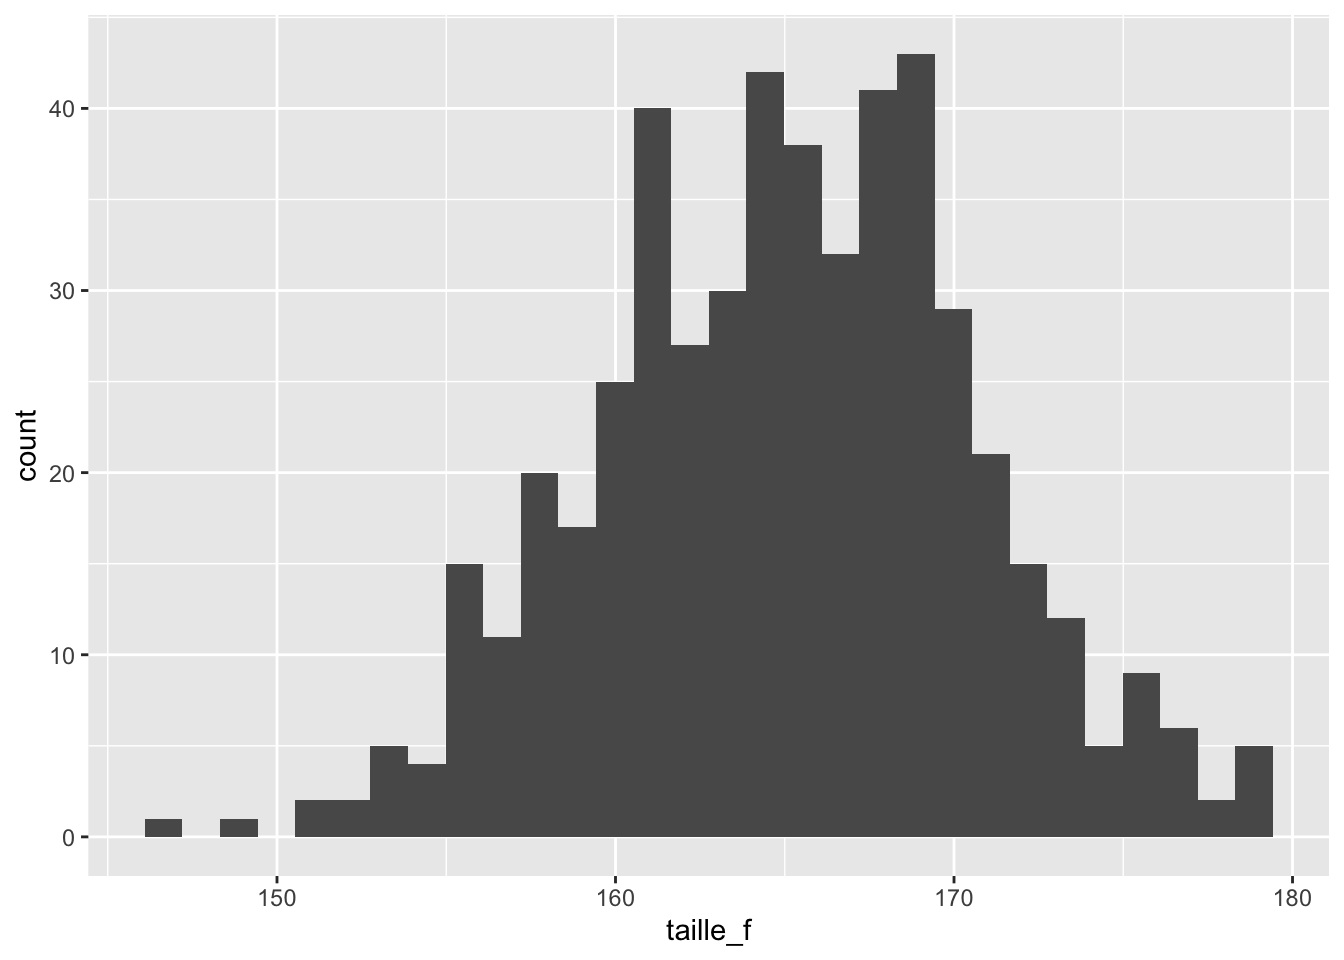
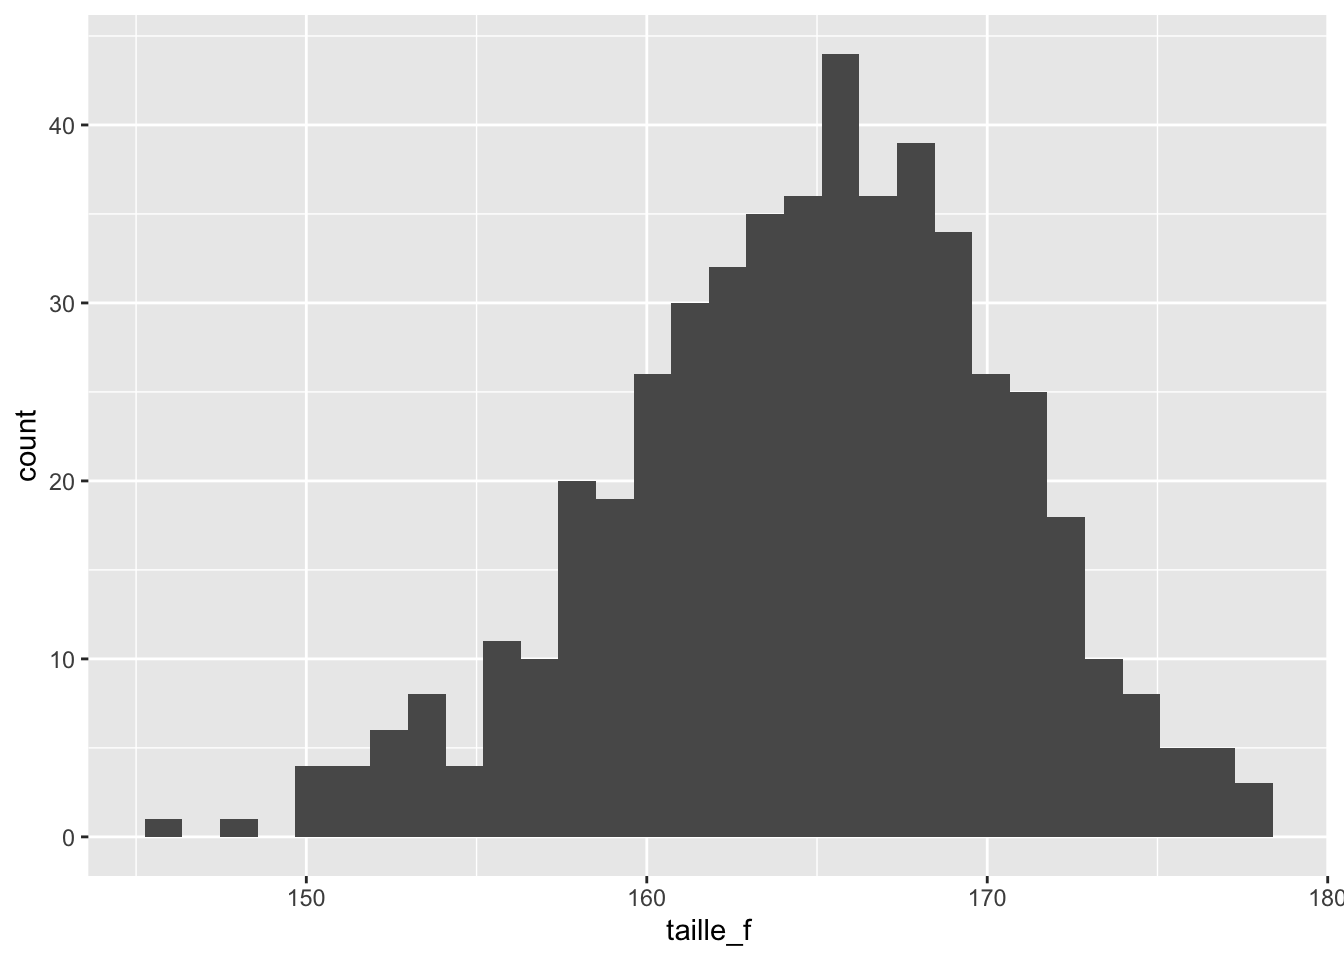
ps 2 v1

diff --git a/index.html b/index.html
@@ -118,6 +118,7 @@ pre > code.sourceCode > span > a:first-child::before { text-decoration: underlin
   <li><a href="#les-boîtes-à-moustaches-angl.-boxplots" id="toc-les-boîtes-à-moustaches-angl.-boxplots" class="nav-link" data-scroll-target="#les-boîtes-à-moustaches-angl.-boxplots">4. Les boîtes à moustaches (angl. <em>boxplots</em>)</a></li>
   <li><a href="#devoir-pour-session-6-problem-set-2" id="toc-devoir-pour-session-6-problem-set-2" class="nav-link" data-scroll-target="#devoir-pour-session-6-problem-set-2">Devoir pour Session 6 (Problem Set 2)</a></li>
   </ul></li>
+  <li><a href="#session-6-problem-set-2" id="toc-session-6-problem-set-2" class="nav-link" data-scroll-target="#session-6-problem-set-2">Session 6 (Problem Set 2)</a></li>
   </ul>
 </nav>
 </div>
@@ -1073,7 +1074,12 @@ Important
 <section id="session-3-problem-set-1" class="level1">
 <h1>Session 3 (Problem Set 1)</h1>
 <p>Les résultats du <strong>Problem Set 1</strong> (bonnes réponses, échelle des notes) sont accéssibles sur la page Moodle de l’exercices.</p>
-<p>Voici l’histogramme des points obtenus par n = 81 étudiant.es qui ont participé au Problem Set 1. Le nombre maximal de points était de 20, il fallait 10 pour passer le test.</p>
+<p>Voici l’histogramme des points obtenus par n = 81 étudiant.es qui ont participé au Problem Set 1.</p>
+<ul>
+<li><p>Le nombre maximal de points était de 20, il fallait 10 pour passer le test.</p></li>
+<li><p>La moyenne des points obtenus était de 14.6 points (note = 4.75).</p></li>
+<li><p>79 étudiant.es ont réussi Problem Set 2 (98%).</p></li>
+</ul>
 <div class="cell">
 <div class="cell-output-display">
 <div>
@@ -1715,7 +1721,7 @@ Attention
 <span id="cb100-5"><a href="#cb100-5" aria-hidden="true" tabindex="-1"></a></span>
 <span id="cb100-6"><a href="#cb100-6" aria-hidden="true" tabindex="-1"></a><span class="fu">head</span>(taille_f)</span></code><button title="Copy to Clipboard" class="code-copy-button"><i class="bi"></i></button></pre></div>
 <div class="cell-output cell-output-stdout">
-<pre><code>[1] 164.2874 167.2223 160.5628 174.6369 173.5646 157.0762</code></pre>
+<pre><code>[1] 168.7890 171.5470 163.8112 175.4314 171.2126 168.4812</code></pre>
 </div>
 <div class="sourceCode cell-code" id="cb102"><pre class="sourceCode r code-with-copy"><code class="sourceCode r"><span id="cb102-1"><a href="#cb102-1" aria-hidden="true" tabindex="-1"></a><span class="co"># stocker taille_f comme objet de type 'data.frame'</span></span>
 <span id="cb102-2"><a href="#cb102-2" aria-hidden="true" tabindex="-1"></a>taille_f <span class="ot">&lt;-</span> <span class="fu">as.data.frame</span>(taille_f)</span>
@@ -1911,6 +1917,25 @@ Astuce
 </ul></li>
 </ul>
 </section>
+</section>
+<section id="session-6-problem-set-2" class="level1">
+<h1>Session 6 (Problem Set 2)</h1>
+<p>Les résultats du <strong>Problem Set 2</strong> (bonnes réponses, échelle des notes) sont accéssibles sur la page Moodle de l’exercices.</p>
+<p>Voici l’histogramme des points obtenus par n = 82 étudiant.es qui ont participé au Problem Set 2.</p>
+<ul>
+<li><p>Le nombre maximal de points était de 20, il fallait 10 pour passer le test.</p></li>
+<li><p>La moyenne des points obtenus était de 12.5 (note = 4.5).</p></li>
+<li><p>71 étudiant.es (86%) ont réussi Problem Set 2.</p></li>
+</ul>
+<div class="cell">
+<div class="cell-output-display">
+<div>
+<figure class="figure">
+<p><img src="index_files/figure-html/unnamed-chunk-51-1.png" class="img-fluid figure-img" width="672"></p>
+</figure>
+</div>
+</div>
+</div>
 </section>
 
 <div id="quarto-appendix" class="default"><section class="quarto-appendix-contents" id="quarto-reuse"><h2 class="anchored quarto-appendix-heading">Reuse</h2><div class="quarto-appendix-contents"><div>MIT</div></div></section></div></main>
